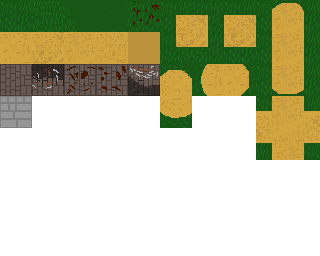
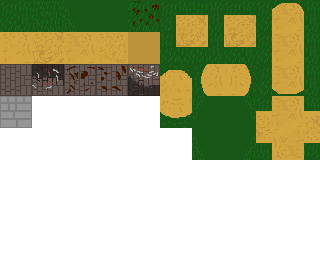
Added ysorted tileLayer

Changed region(s): [[0.5938, 0.3125, 0.8125, 0.625], [0.75, 0.25, 0.7812, 0.2812]]

diff --git a/src/Yorcvs.h b/src/Yorcvs.h
@@ -165,12 +165,31 @@ class Map
         }
         tilesSize = {static_cast<float>(map.getTileSize().x), static_cast<float>(map.getTileSize().y)};
         const auto &layers = map.getLayers();
+
         for (const auto &layer : layers) // parse layers
         {
+            const auto &properties = layer->getProperties();
+            bool tiles_ysorted = false;
             switch (layer->getType())
             {
             case tmx::Layer::Type::Tile:
-                parse_tile_layer(map, layer->getLayerAs<tmx::TileLayer>());
+
+                for (const auto &property : properties)
+                {
+                    if (property.getName() == "Ysorted")
+                    {
+                        tiles_ysorted = true;
+                    }
+                }
+                if (tiles_ysorted)
+                {
+                    parse_tile_layer_ysorted(map, layer->getLayerAs<tmx::TileLayer>());
+                }
+                else
+                {
+                    parse_tile_layer(map, layer->getLayerAs<tmx::TileLayer>());
+                }
+
                 break;
             case tmx::Layer::Type::Object:
                 parse_object_layer(map, layer->getLayerAs<tmx::ObjectGroup>());
@@ -227,7 +246,48 @@ class Map
             }
         }
     }
+    void parse_tile_layer_ysorted(tmx::Map &map, tmx::TileLayer &tileLayer)
+    {
+        const auto &chunks = tileLayer.getChunks();
 
+        for (const auto &chunk : chunks) // parse chunks
+        {
+            yorcvs::Vec2<float> chunk_position = {static_cast<float>(chunk.position.x),
+                                                  static_cast<float>(chunk.position.y)};
+            for (auto chunk_y = 0; chunk_y < chunk.size.y; chunk_y++)
+            {
+                for (auto chunk_x = 0; chunk_x < chunk.size.x; chunk_x++)
+                {
+                    // parse tiles
+                    const size_t tileIndex = chunk_y * chunk.size.x + chunk_x;
+                    if (chunk.tiles[tileIndex].ID == 0)
+                    {
+                        continue;
+                    }
+                    // chunk.tiles[tileIndex].ID;
+                    // find tileset
+                    tmx::Tileset const *tile_set = nullptr;
+                    for (const auto &tileset : map.getTilesets())
+                    {
+                        if (tileset.hasTile(chunk.tiles[tileIndex].ID))
+                        {
+                            tile_set = &tileset;
+                        }
+                    }
+
+                
+                    ///add object
+                    size_t entity = ecs->create_entity_ID();  
+                    ecs->add_component<positionComponent>(
+                     entity, {chunk_position * tilesSize + tilesSize * yorcvs::Vec2<float>{static_cast<float>(chunk_x), static_cast<float>(chunk_y)}});
+                    ecs->add_component<spriteComponent>(entity, {{0, 0},
+                                                             {static_cast<float>(tile_set->getTileSize().x),static_cast<float>(tile_set->getTileSize().y)},
+                                                             get_src_rect_from_uid(map, chunk.tiles[tileIndex].ID),
+                                                             parentWindow->create_texture(tile_set->getImagePath())});
+                }
+            }
+        }
+    }
     void parse_object_layer(tmx::Map &map, tmx::ObjectGroup &objectLayer)
     {
         const auto &objects = objectLayer.getObjects();
@@ -235,23 +295,25 @@ class Map
         {
             // create entity
             size_t entity = ecs->create_entity_ID();
-              ecs->add_component<positionComponent>(entity,{{object.getPosition().x ,object.getPosition().y - object.getAABB().height}});
+            ecs->add_component<positionComponent>(
+                entity, {{object.getPosition().x, object.getPosition().y - object.getAABB().height}});
             if (object.getTileID() != 0)
             {
-                const auto *tileSet = get_tileset_containing(map,object.getTileID());
+                const auto *tileSet = get_tileset_containing(map, object.getTileID());
                 // add sprite component
-              
+
                 ecs->add_component<spriteComponent>(entity, {{0, 0},
                                                              {object.getAABB().width, object.getAABB().height},
                                                              get_src_rect_from_uid(map, object.getTileID()),
                                                              parentWindow->create_texture(tileSet->getImagePath())});
             }
-            for(const auto& property : object.getProperties())
+            for (const auto &property : object.getProperties())
             {
-                if(property.getName() == "collision" && property.getBoolValue())
+                if (property.getName() == "collision" && property.getBoolValue())
                 {
-                    //add collision
-                    ecs->add_component<hitboxComponent>(entity,{{0,0,object.getAABB().width,object.getAABB().height}});
+                    // add collision
+                    ecs->add_component<hitboxComponent>(entity,
+                                                        {{0, 0, object.getAABB().width, object.getAABB().height}});
                 }
             }
         }
@@ -301,7 +363,7 @@ class Map
         return srcRect;
     }
 
-    static tmx::Tileset const* get_tileset_containing(tmx::Map& map,const size_t tile_UID)
+    static tmx::Tileset const *get_tileset_containing(tmx::Map &map, const size_t tile_UID)
     {
         tmx::Tileset const *tile_set = nullptr;
         for (const auto &tileset : map.getTilesets())
@@ -311,11 +373,11 @@ class Map
                 tile_set = &tileset;
             }
         }
-        if(tile_set == nullptr)
+        if (tile_set == nullptr)
         {
-         yorcvs::log("no tileset contains tile ID : " + std::to_string(tile_UID));
+            yorcvs::log("no tileset contains tile ID : " + std::to_string(tile_UID));
         }
-        return tile_set;    
+        return tile_set;
     }
 
   private:
